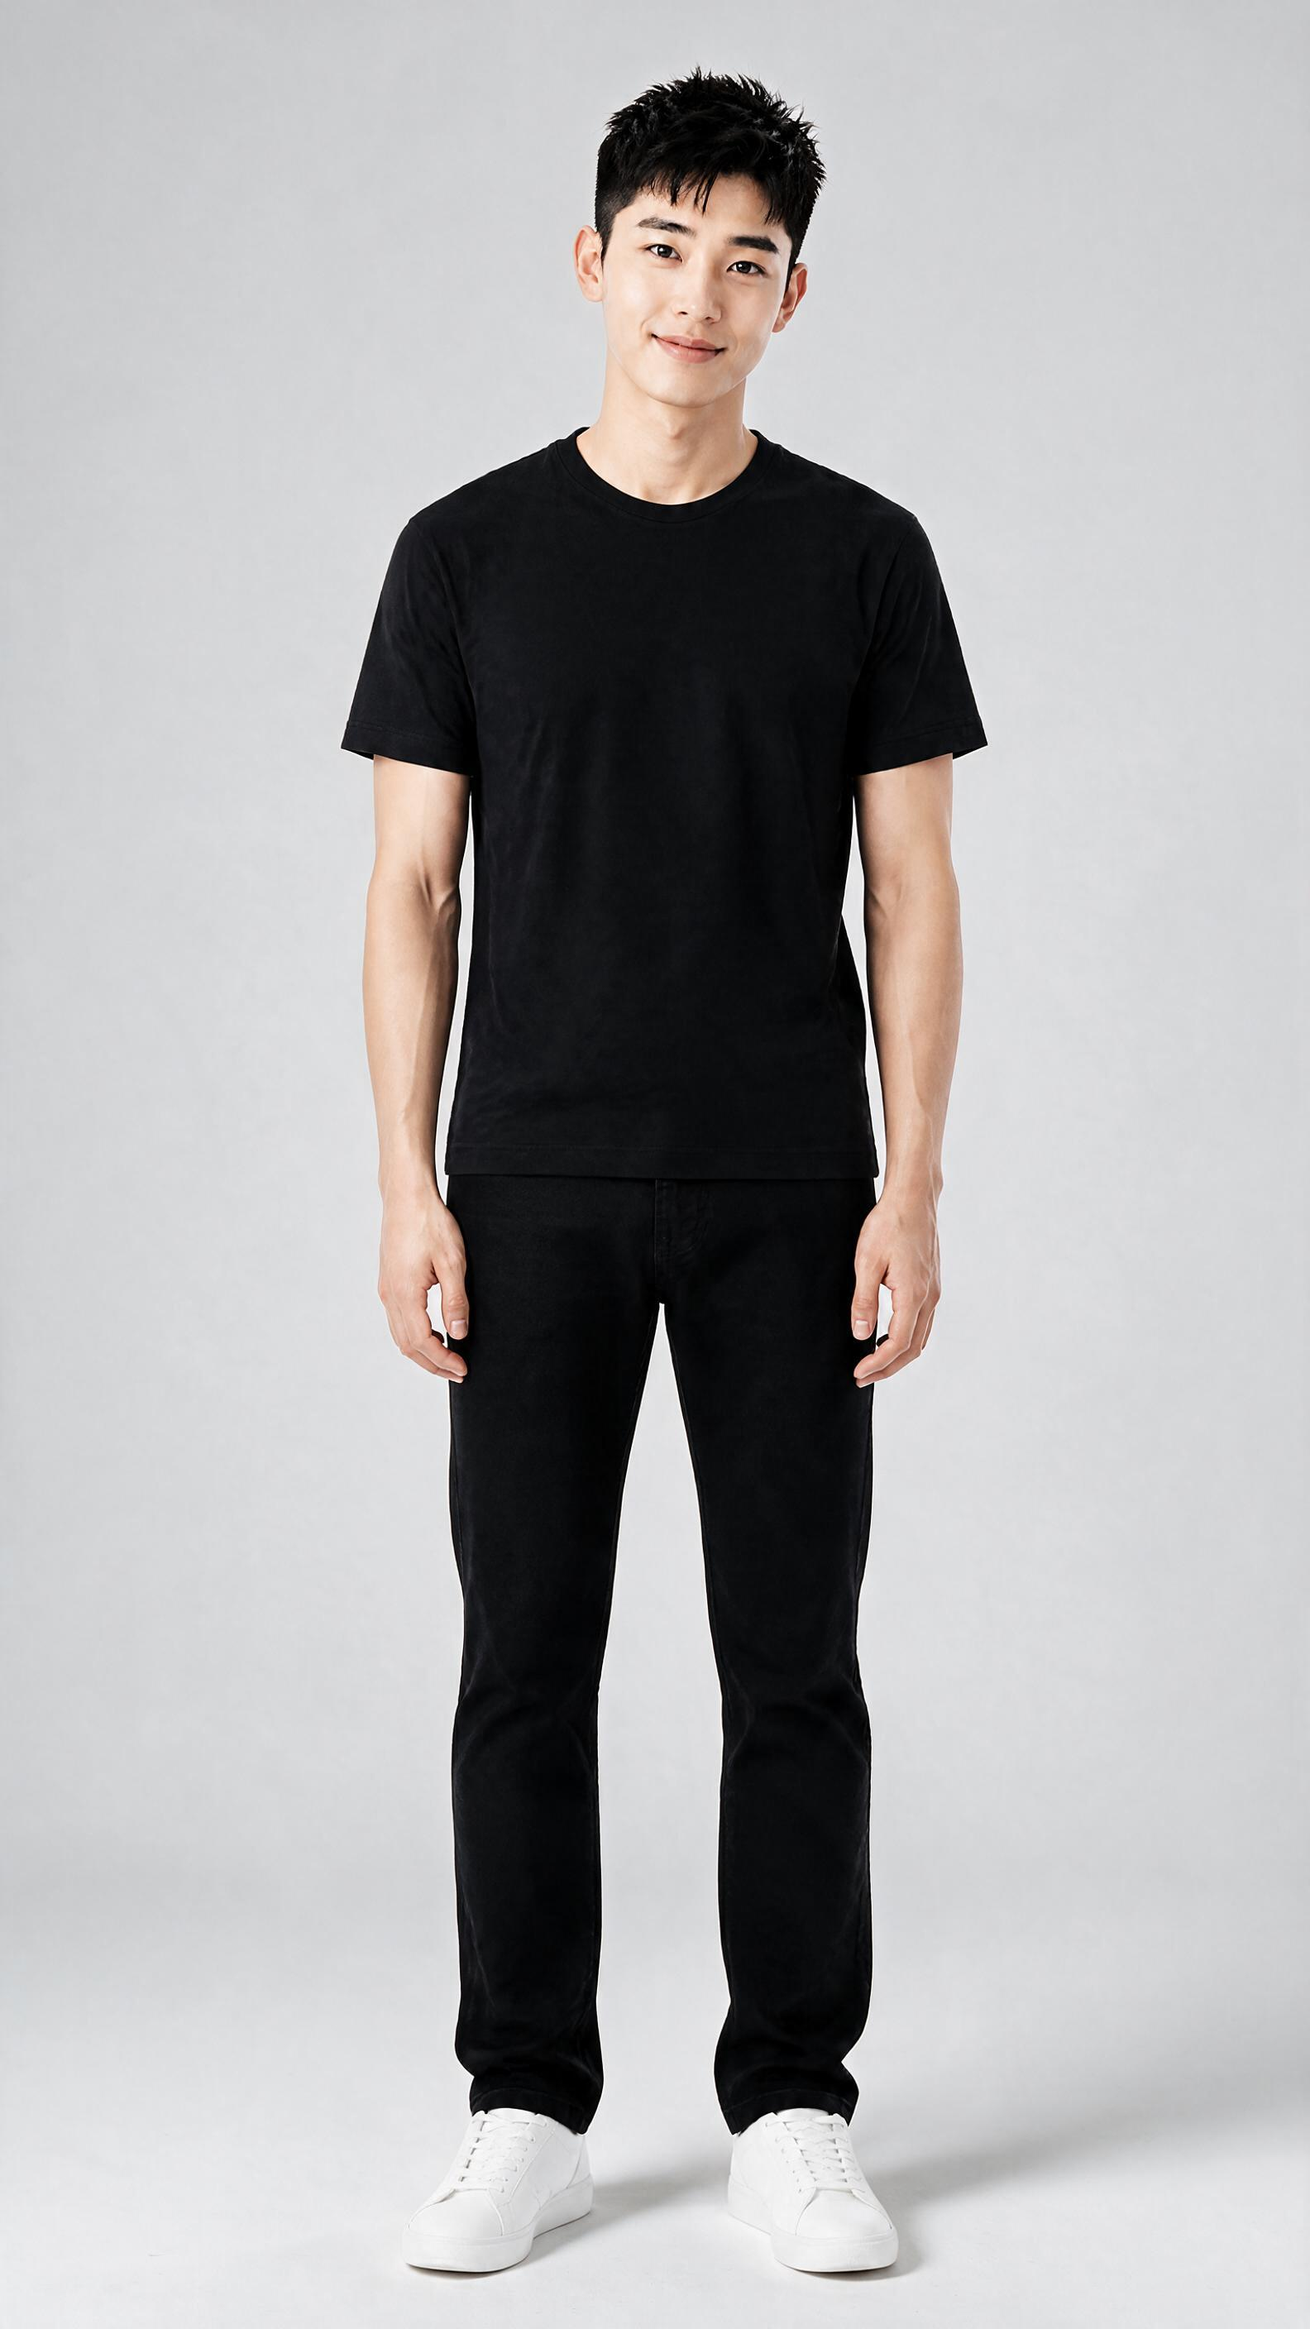
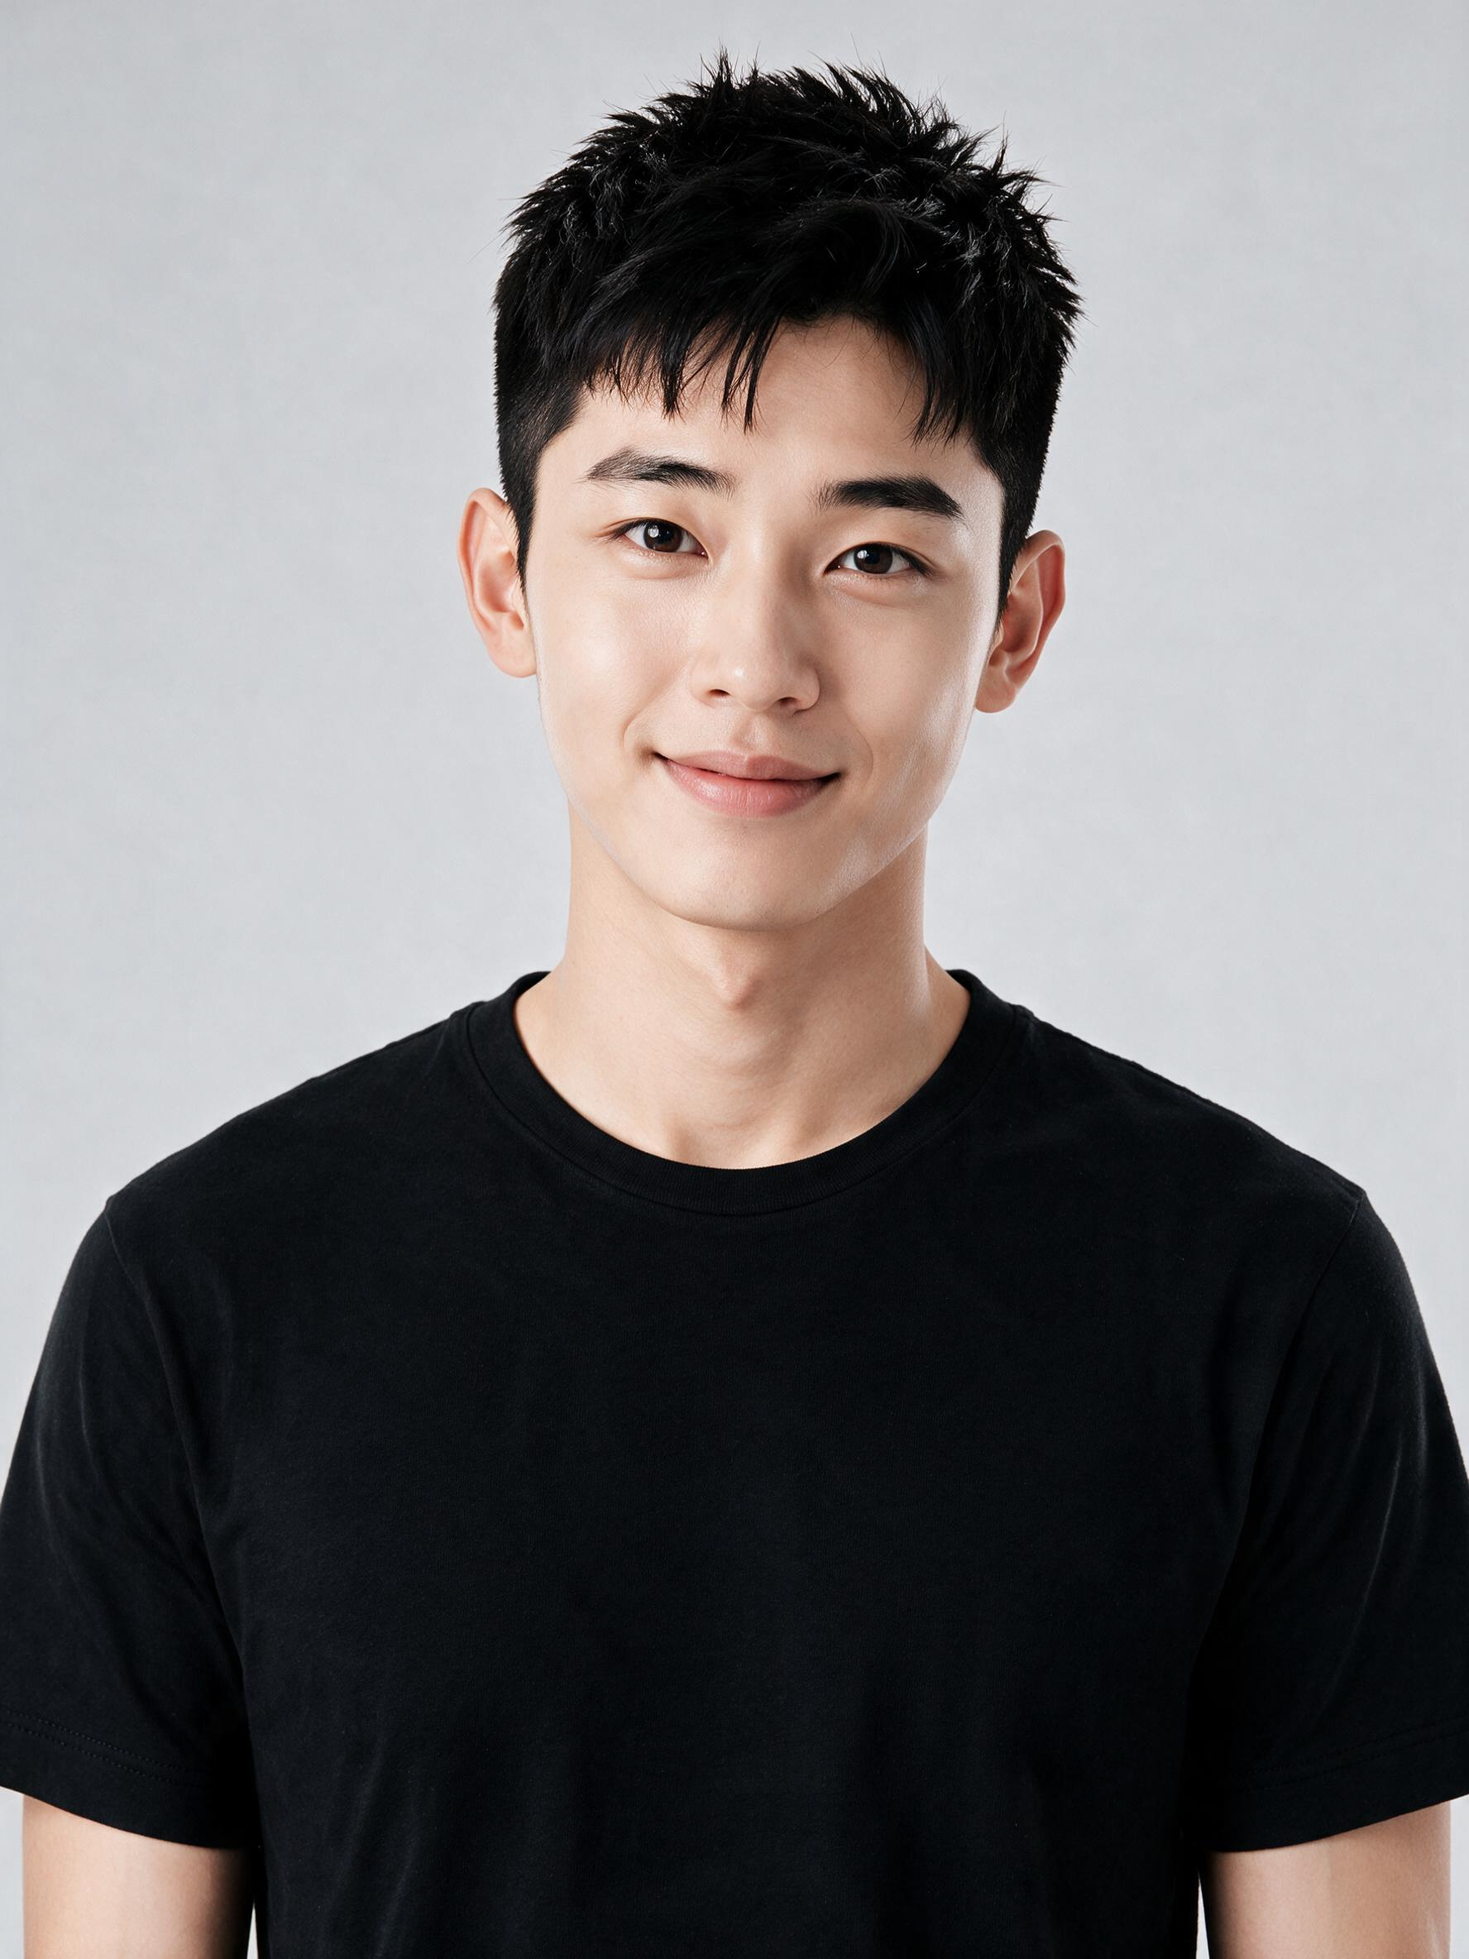
三视图侧脸锚定补全(solo/婚纱照)+锚定词限定仅五官参考; hz108卡图换半身正脸统一版式

diff --git a/server/mp_worker.py b/server/mp_worker.py
@@ -558,8 +558,11 @@ SITE_DIR = Path(ENV.get("SITE_DIR", "/var/www/luckynemo"))
 FACE_SHEET_IDENTITY = ("，保持与参考图人物五官、脸型完全一致，侧脸的鼻梁高度、下颌线、"
                        "耳朵形状严格按侧面参考照还原，不要美化成标准模板脸")
 #: 生成任务注入人脸三视图时的锚定尾缀
+#: （三视图由原始照片生成、不随定妆/换发型重出，故明确"仅供五官参考"，
+#:  发型妆容跟主锚点图/模板走，避免侧脸镜头被三视图里的旧发型往回拉）
 FACE_SHEET_ANCHOR = ("随附的人脸三视图（正/左/右侧脸部特写）是人物五官的权威参考："
-                     "人物的侧脸鼻梁高度、下颌线、耳朵形状严格按三视图还原，不要美化成标准模板脸")
+                     "人物的侧脸鼻梁高度、下颌线、耳朵形状严格按三视图还原，不要美化成标准模板脸；"
+                     "三视图仅供五官特征参考，其中的发型与妆容不作参考")
 
 
 def scene_index() -> dict:
@@ -881,21 +884,32 @@ def run_job(job_id: int, order_no: str, kind: str, payload: dict) -> None:
         result = seedream_qc(prompt, photos, expect, job_id, "template_photo")
     elif kind == "solo_photo":
         # 个人写真：定妆照锚点（A=本人/新娘；anchor_key_b 存在时为男士单人）+ 服装/场景视觉参考
-        if payload.get("anchor_key_b") and not payload.get("anchor_key"):
+        male_solo = bool(payload.get("anchor_key_b")) and not payload.get("anchor_key")
+        if male_solo:
             photos = _anchor_or_photos_b(order_no, payload, job_id)
         else:
             photos = _anchor_or_photos(order_no, payload, job_id)
+        # 人脸三视图注入（侧脸身份锚定，与 template_photo 一致）：插在人物锚点后、服装场景参考前
+        face_refs = _face_sheet_refs(order_no, ["B"] if male_solo else ["A"])
+        photos += face_refs
         extra, scene_txt = asset_refs(payload)
         photos += extra
         prompt = build_photo_prompt(payload, scene_txt)
+        if face_refs:
+            prompt += "。" + FACE_SHEET_ANCHOR
     else:
         # 婚纱照：新娘/新郎双锚点 + 服装/场景视觉参考，脸和氛围都锁住
         bride = _anchor_or_photos(order_no, payload, job_id)
         groom = _anchor_or_photos_b(order_no, payload, job_id)
         photos = (bride[:1] + groom[:2]) if bride else groom
+        # 人脸三视图注入（侧脸身份锚定）：插在人物锚点后、服装场景参考前
+        face_refs = _face_sheet_refs(order_no, ["A", "B"])
+        photos += face_refs
         extra, scene_txt = asset_refs(payload)
         photos += extra
         prompt = build_photo_prompt(payload, scene_txt)
+        if face_refs:
+            prompt += "。" + FACE_SHEET_ANCHOR
     if not photos:
         raise RuntimeError("订单没有可用照片（uploads 表为空）")
     if result is None:

diff --git a/assets/hongzhuang/gen_hz108_halfbody.py b/assets/hongzhuang/gen_hz108_halfbody.py
@@ -1,0 +1,52 @@
+"""红妆阁：hz108（男士原图直出版）卡图重出 —— 全身照改统一半身正脸照。
+
+起因（2026-08-11 用户反馈）：hz108 卡图是全身照，与 hz107/hz213/hz214 等
+其他卡的半身正脸版式不统一。以现有 hz108 为人物参考重出胸部以上半身正脸肖像，
+输出尺寸对齐其他卡（1776x2368）。
+
+用法（从 tools/luckynemo-toolkit/ 目录下运行）：
+    python ../../assets/hongzhuang/gen_hz108_halfbody.py --out /tmp/hz108_draft
+确认合格后人工替换 styles/hz108.png 并同步 ECS。
+"""
+import argparse
+import sys
+from pathlib import Path
+
+sys.path.insert(0, str(Path(__file__).resolve().parents[2] / "tools/luckynemo-toolkit"))
+from luckynemo import ark, config  # noqa: E402
+
+STYLES = Path(__file__).resolve().parent / "styles"
+
+PROMPT = (
+    "同一人物的胸部以上半身正面肖像照：正脸直视镜头，自然放松微笑，"
+    "保持参考图人物的五官、脸型、发型完全一致，黑色T恤不变，"
+    "浅灰纯色背景，柔和均匀棚拍光线，专业肖像照质感，竖版构图，无文字无水印"
+)
+
+
+def main() -> None:
+    ap = argparse.ArgumentParser(description="hz108 卡图重出（半身正脸版）")
+    ap.add_argument("--out", required=True, help="输出目录")
+    ap.add_argument("--count", type=int, default=2, help="生成张数（默认 2，便于挑选）")
+    args = ap.parse_args()
+
+    config.load_dotenv()
+    client = ark.ArkClient(api_key=config.get_api_key(), timeout=300.0)
+    model = config.get_model("SEEDREAM_MODEL", ark.SEEDREAM_5_PRO)
+    ref = STYLES / "hz108.png"
+    out_dir = Path(args.out)
+    out_dir.mkdir(parents=True, exist_ok=True)
+
+    for i in range(1, args.count + 1):
+        dest = out_dir / f"hz108_halfbody_{i}.png"
+        print(f"第 {i}/{args.count} 张生成中...", flush=True)
+        urls = client.generate_image(
+            prompt=PROMPT, size="1776x2368", reference_images=[str(ref)],
+            model=model, watermark=False)
+        client.download(urls[0], dest)
+        print(f"  -> {dest}", flush=True)
+    print("完成。挑选合格后替换 styles/hz108.png。")
+
+
+if __name__ == "__main__":
+    main()

diff --git a/PROJECT_STATE.md b/PROJECT_STATE.md
@@ -76,7 +76,7 @@
 - **v4 已上线（2026-08-07）**：main 合并 f845f8e → 96822e1（含 fav 鉴权收紧）；ECS `/var/www/luckynemo/moka/` 180 模板 + index.json v4、`/opt/luckynemo/server/` app.py/mp_worker.py 已同步，两服务 active；线上冒烟 catalog=180模板/20系列(全9变体)/6分组/4节点、mk301.png 200、lv001.png 404、fav 伪造 token 401 ✓。发现并修复：仓库 templates/ 残留 56 张 lv 旧卡被 rsync 误回线上，已删线上+删库（7908671，lovers_draft 存档保留）。**待办：微信开发者工具上传小程序（v4 三新页面+首页重构，未经验证）；占位稿 Seedream 重出替换**
 - v4 规划文档（已定稿实施）：`research/2026-08-模卡内容体验规划.md` + H5 demo `research/moka-h5-demo/index.html`（发现首页/系列详情独立页/结果页朋友圈预览三屏，图片用线上模板）。核心主张：系列即九宫格、节点语言入口（领证/婚纱/旅拍/写真）、详情页价格前置+效果预期、上新日历驱动复购
 
-- **小程序人脸三视图（2026-08-07 上线，反馈 #26/#27）**：`face_sheet` 任务（me 页入口选正脸底照+侧脸原照 → 脸部三视图卡，不参考服装），template_photo/duo_photo/template_series 自动注入做侧脸身份锚定；chat 说身高（"他183我165"）→ selection.heights → 双人照还原身高差
+- **小程序人脸三视图（2026-08-07 上线，反馈 #26/#27）**：`face_sheet` 任务（me 页入口选正脸底照+侧脸原照 → 脸部三视图卡，不参考服装），template_photo/duo_photo/template_series 自动注入做侧脸身份锚定（2026-08-11 起 solo_photo/婚纱照也注入，全链路覆盖；锚定词限定三视图仅供五官参考、不参考其发型妆容——三视图由原始照片生成，不随定妆/换发型重出）；chat 说身高（"他183我165"）→ selection.heights → 双人照还原身高差
 - **me 页改版（2026-08-07，前端待发布）**：生成的照片挪二级页 `pages/photos/`（网格 + 长按保存/删除，me 页只留入口行，防几十张图撑长页面）；全屏预览改整组 urls 传参，系统自带左右滑动（上传照片/生成照片都支持）
 
 **自定义模卡（DIY，2026-08-01 上线）**：用户在 chat 页发范例图(可选)+文字描述 → M3 识别意图产出 `custom_moka` 动作 → worker 三段式：VLM 安全审核+意图规格化（范例图有人脸只取风格不进参考图，防肖像权风险）→ Seedream 生成（固定画质尾缀与公共模卡同骨架）→ VLM 质检（人数/畸形/文字，最多重试 2 次）→ 存 OSS `diy_moka/{order_no}/`，chat 页轮询出图后给「用这张出片」按钮 → `template_photo` 支持 `custom_template_key` 复用一键同款链路出终图。配额：每单免费 3 次（app.py custom_moka 分支控制）。DIY 卡默认私有不进公共库。
@@ -113,7 +113,15 @@
 
 ## 更新日志
 
-- 2026-08-11 正式发布准备：新用户免费额度 20 张 → **1 张**（老订单已落库的 free_quota=20 不受影响）。`server/app.py` 三处：建单 INSERT 显式写 free_quota=1（生产库列默认值仍是 20，显式写入才可靠）、列定义 DEFAULT 1、读取兜底 else 1；扣费注释同步。前端文案同步去「内测」字样：微信版 chat/result/me 分享卡片 + landing 第 3 屏改「新用户免费送 1 张」，抖音版同 4 处同步改（后端额度共享，文案必须一致——已动 douyin 组文件，群里同步一声）。**本地改动未提交未部署：app.py 需部 ECS 重启 luckynemo 才生效，前端需微信/抖音开发者工具上传**
+- 2026-08-11 三视图侧脸锚定补全 + hz108 卡图换版：①`solo_photo`/婚纱照分支补齐 `_face_sheet_refs` 三视图注入（此前只有 template_photo/duo_photo/template_series 有），插在人物锚点后、服装场景参考前；`FACE_SHEET_ANCHOR` 加"三视图仅供五官特征参考，其中的发型与妆容不作参考"（三视图用原始照片生成、定妆换发型后不重出，防侧脸镜头被旧发型拉回）；②hz108（男士原图直出版）卡图全身照 → 统一半身正脸照（Seedream 以旧图为人物参考重出，1776×2368 对齐 hz107/hz213/hz214，生成脚本 `assets/hongzhuang/gen_hz108_halfbody.py`）。已提交 main，ECS 已同步 `/opt/luckynemo/server/mp_worker.py` + `/var/www/luckynemo/hongzhuang/styles/hz108.png`，luckynemo-worker 重启 active
+- 2026-08-11 真人认证环节下线（用户决定：认证只能在小程序外完成，是转化卡点；视频功能上线时再恢复）：`server/app.py` 新增 `MP_REQUIRE_AUTH` 开关（默认 0 放开 /api/mp/job 的 403 认证闸门，ECS .env 设 1 恢复，认证链路 auth-session/回调/继承代码全保留）；chat.js 加 `AUTH_ENABLED=false` 跳过认证引导块、开场白与婚纱照话术去掉认证；landing 屏 3「真人认证保护」改「本人授权：请只上传本人或已获本人授权的照片」、upload 页 hint 与 me 页隐私弹窗同步加授权文案、me 页个人信息隐藏认证状态行。本地双向验证（默认放开可建任务 / 开关=1 恢复 403）✓；已提交 main 0786139，ECS app.py 已同步重启 active，线上冒烟未认证订单建任务 queued ✓（冒烟单已清理）。**注意：认证不再是肖像权同意链，授权依赖上传文案兜底；前端需微信开发者工具上传后新用户才不再被认证引导卡住；抖音版前端仍带认证引导（后端已不拦），douyin 组自行决定是否同步**
+- 2026-08-11 今日两新用户三视图目检正常：EL6C（job#120）、LB7Q（job#126）face_sheet 均 done，正/左/右三视角脸部特写卡 4320×2560 规范合格
+
+- 2026-08-11 反馈 #34/#35/#36 处理完毕（未处理清零）：#36 实锤——「原图直出版」定妆的 use_original 分支忽略 hairstyle 参数，已改为用户显式选发型时放开改发型（其余仍严格不动，mp_worker.py）；#35 部分实锤——custom_moka 崩溃根因是 `vlm_json` 兜底用贪心正则 `\{[\s\S]*\}`，LLM 返回多段内容必炸 "Extra data"，已改 `raw_decode` 取首个完整 JSON（语音识别质量与"引导尴尬"无法代码修复，回复中追问细节）；#34 无法复现（认证流程同日有其他用户走通、反馈附件通道正常），回复解释复制链接交互+引导重试。已提交 main 9762a8a，ECS mp_worker.py 已同步、luckynemo-worker 重启 active；三条回复已写入 mp_feedback 并标 done（纯服务端修复，无需小程序重新上传）
+
+- 2026-08-11 订单中心页上线（微信提审硬性要求：有订单逻辑的小程序须填「小程序订单中心path」，[公告](https://mp.weixin.qq.com/cgi-bin/announce?action=getannouncement&key=11669729383k7cis&version=1&lang=zh_CN&platform=2)）：后端新增 `GET /api/mp/pay_orders?open_token=`（按 openid 列充值记录，新→旧 LIMIT 100，未登录 401）；小程序新增 `pages/orders/`（商品/金额/到账张数/状态/时间/交易单号点击复制），me 页「帮助与其他」卡加入口，app.json 已注册。**已提交 main 1fe7e56 并部署 ECS，线上冒烟 401/空列表 ✓**。**发布动作：开发者工具上传前端 → 提审时订单中心 path 填 `pages/orders/orders` 并上传该页截图（或「设置-基础设置-小程序订单中心path设置」预先配置）**。抖音版提审大概率同样要求，douyin 组需照做（接口已通用，只缺 `miniprogram-douyin/pages/orders/` 前端页）
+
+- 2026-08-11 正式发布准备：新用户免费额度 20 张 → **1 张**（老订单已落库的 free_quota=20 不受影响）。`server/app.py` 三处：建单 INSERT 显式写 free_quota=1（生产库列默认值仍是 20，显式写入才可靠）、列定义 DEFAULT 1、读取兜底 else 1；扣费注释同步。前端文案同步去「内测」字样：微信版 chat/result/me 分享卡片 + landing 第 3 屏改「新用户免费送 1 张」，抖音版同 4 处同步改（后端额度共享，文案必须一致——已动 douyin 组文件，群里同步一声）。**已提交 main 0b2d3a4 并部署：ECS /opt/luckynemo/server/app.py 已同步、luckynemo 重启 active，线上冒烟新建订单 free_quota=1 ✓（冒烟单已清理）。剩：微信/抖音开发者工具上传前端**
 
 - 2026-08-08 抖音版上线推进：main 合并 46651f1 + 37733ad（修正 code2session 为 POST JSON，GET 404）；ECS app.py 已部署、`.env` 已配 DOUYIN_APPID/SECRET（AppID tt426534d8dc1fdb9301），luckynemo 重启 active，线上冒烟 `/api/dy/login` 坏 code 返回「bad code」即凭证已被字节接受 ✓；web-view 域名校验文件已上 `/var/www/luckynemo/UiXxZYeEkz.txt`（公网 200 ✓）；小程序 AppID 已填 project.config.json。**待：担保支付进件后配 DOUYIN_PAY_SALT/TOKEN；抖音开发者工具真机走查前端；控制台回验 web-view 域名**
 - 2026-08-08 抖音小程序版移植落地（douyin 分支，未提交）：`miniprogram-douyin/` 由微信版整体移植（codemod wx.→tt./wxml→ttml/wxss→ttss，16 页全 js/json 校验过）；适配层——登录 tt.login→/api/dy/login（openid 前缀 dy-）、支付改担保支付按单付（无金币模式，app.js vpay 重写）、**iOS canPay=false 全端隐藏付费入口**（result/me 页 tt:if 门控）、客服 open-type=contact→意见反馈、WechatSI 语音插件下线（入口注释）、海报小程序码暂缺走无码版、去除全部微信号引流（审核红线）。后端 server/app.py 新增 /api/dy/login + /api/dy/pay/{prepare,confirm,notify}（复用 mp_pay_orders 表，confirm 走字节 query_order 核验不信客户端），_vp_openid 泛化支持 dy- 前缀（收藏/vpay 共用）；未配置时降级 500/503 已冒烟。**待：抖音 AppID/SECRET/SALT 配 ECS .env；前端需抖音开发者工具真机走查（本地无法验证 TTML 渲染）；担保支付签名/回调字段需凭据到位后真单校准**
